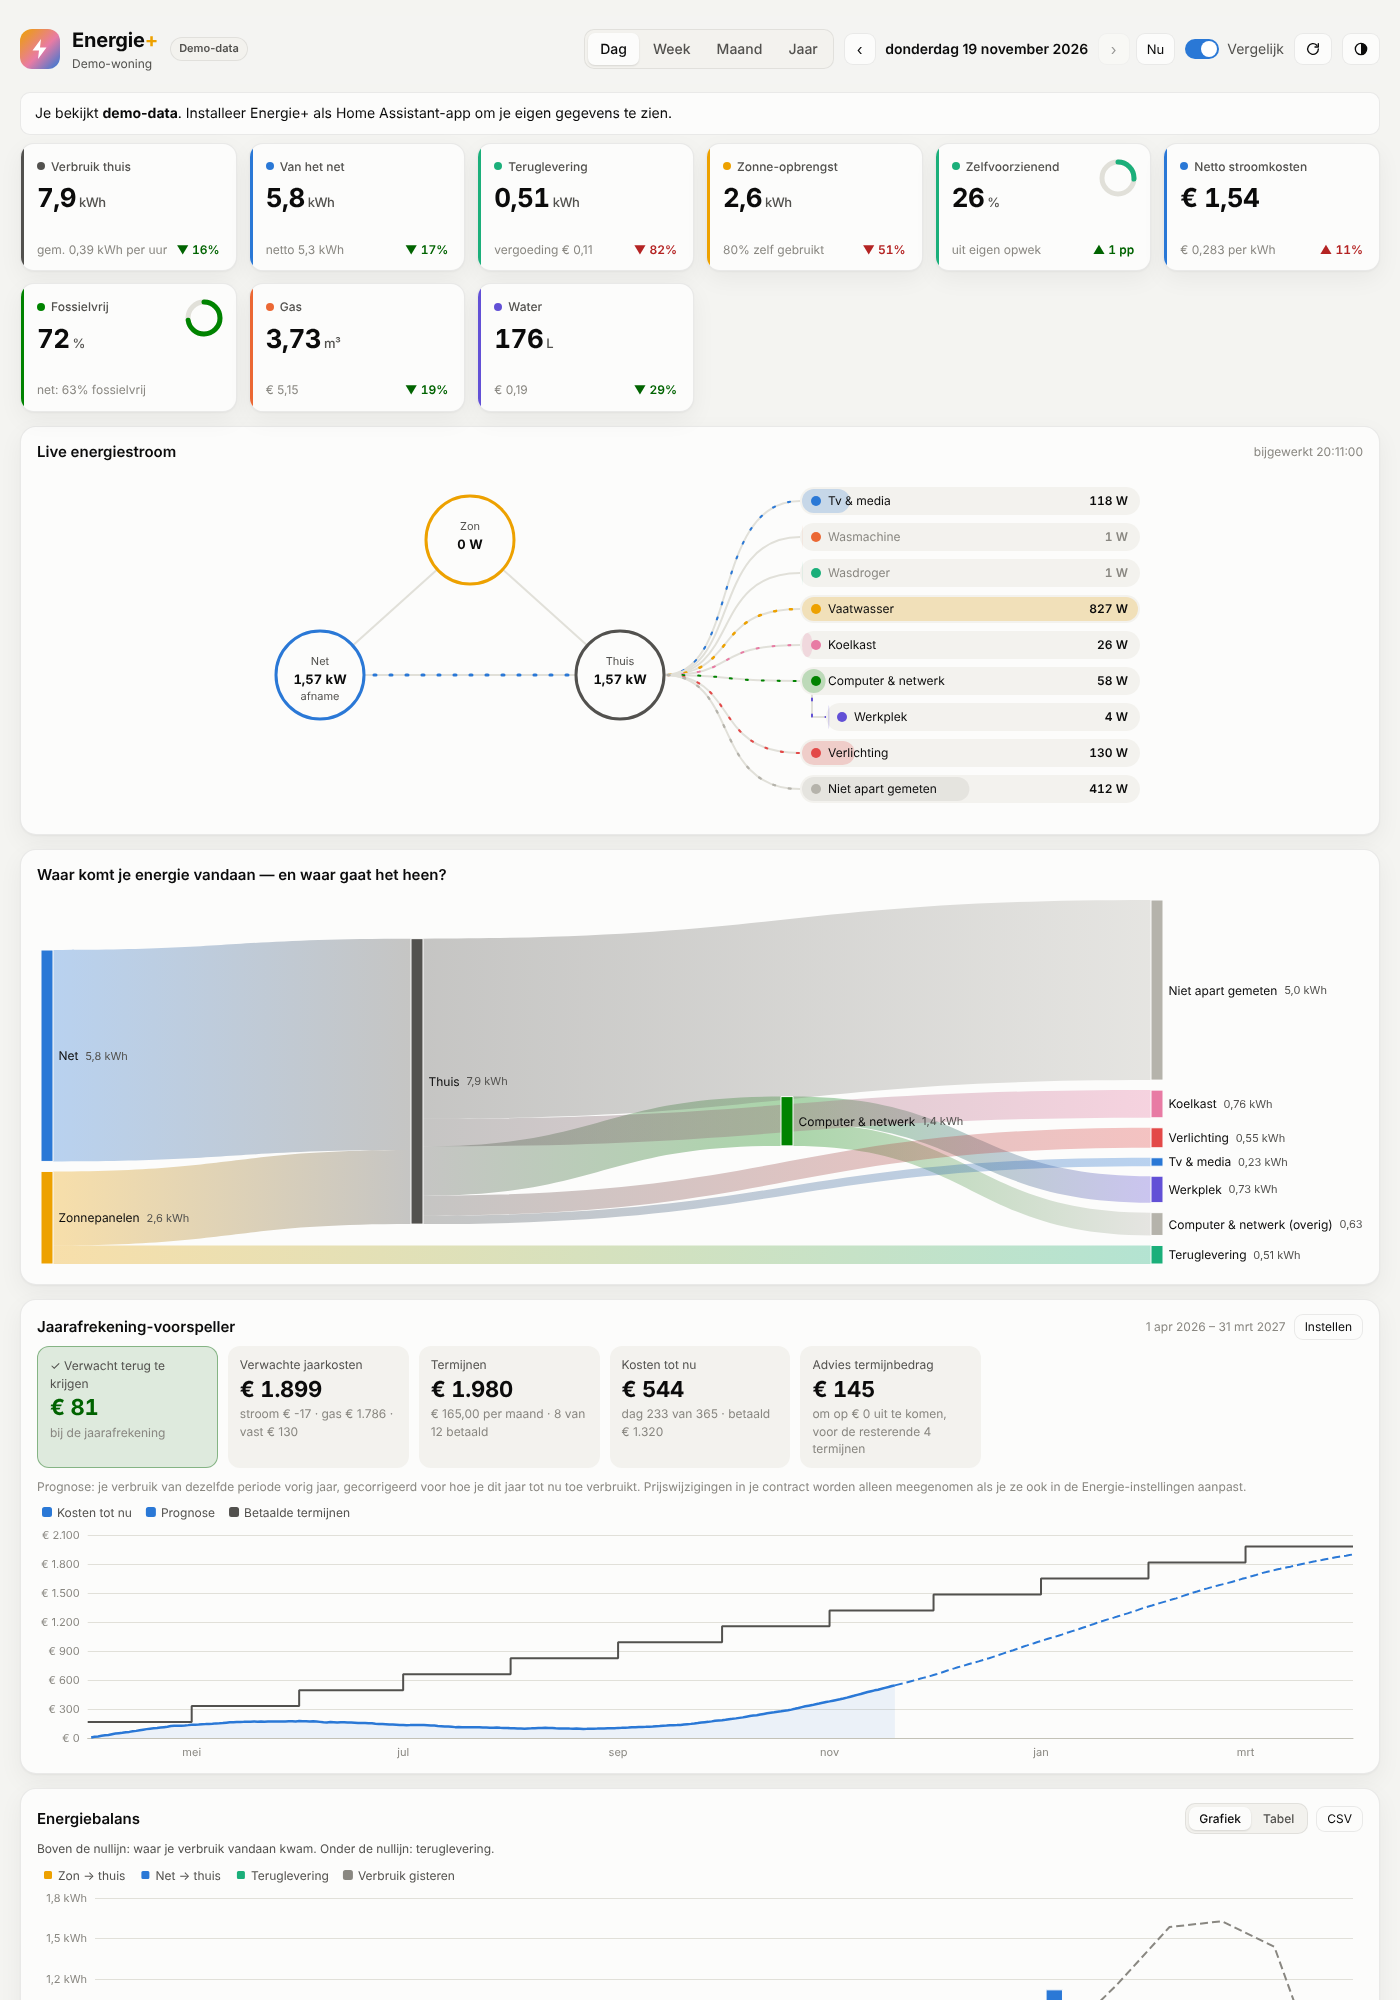
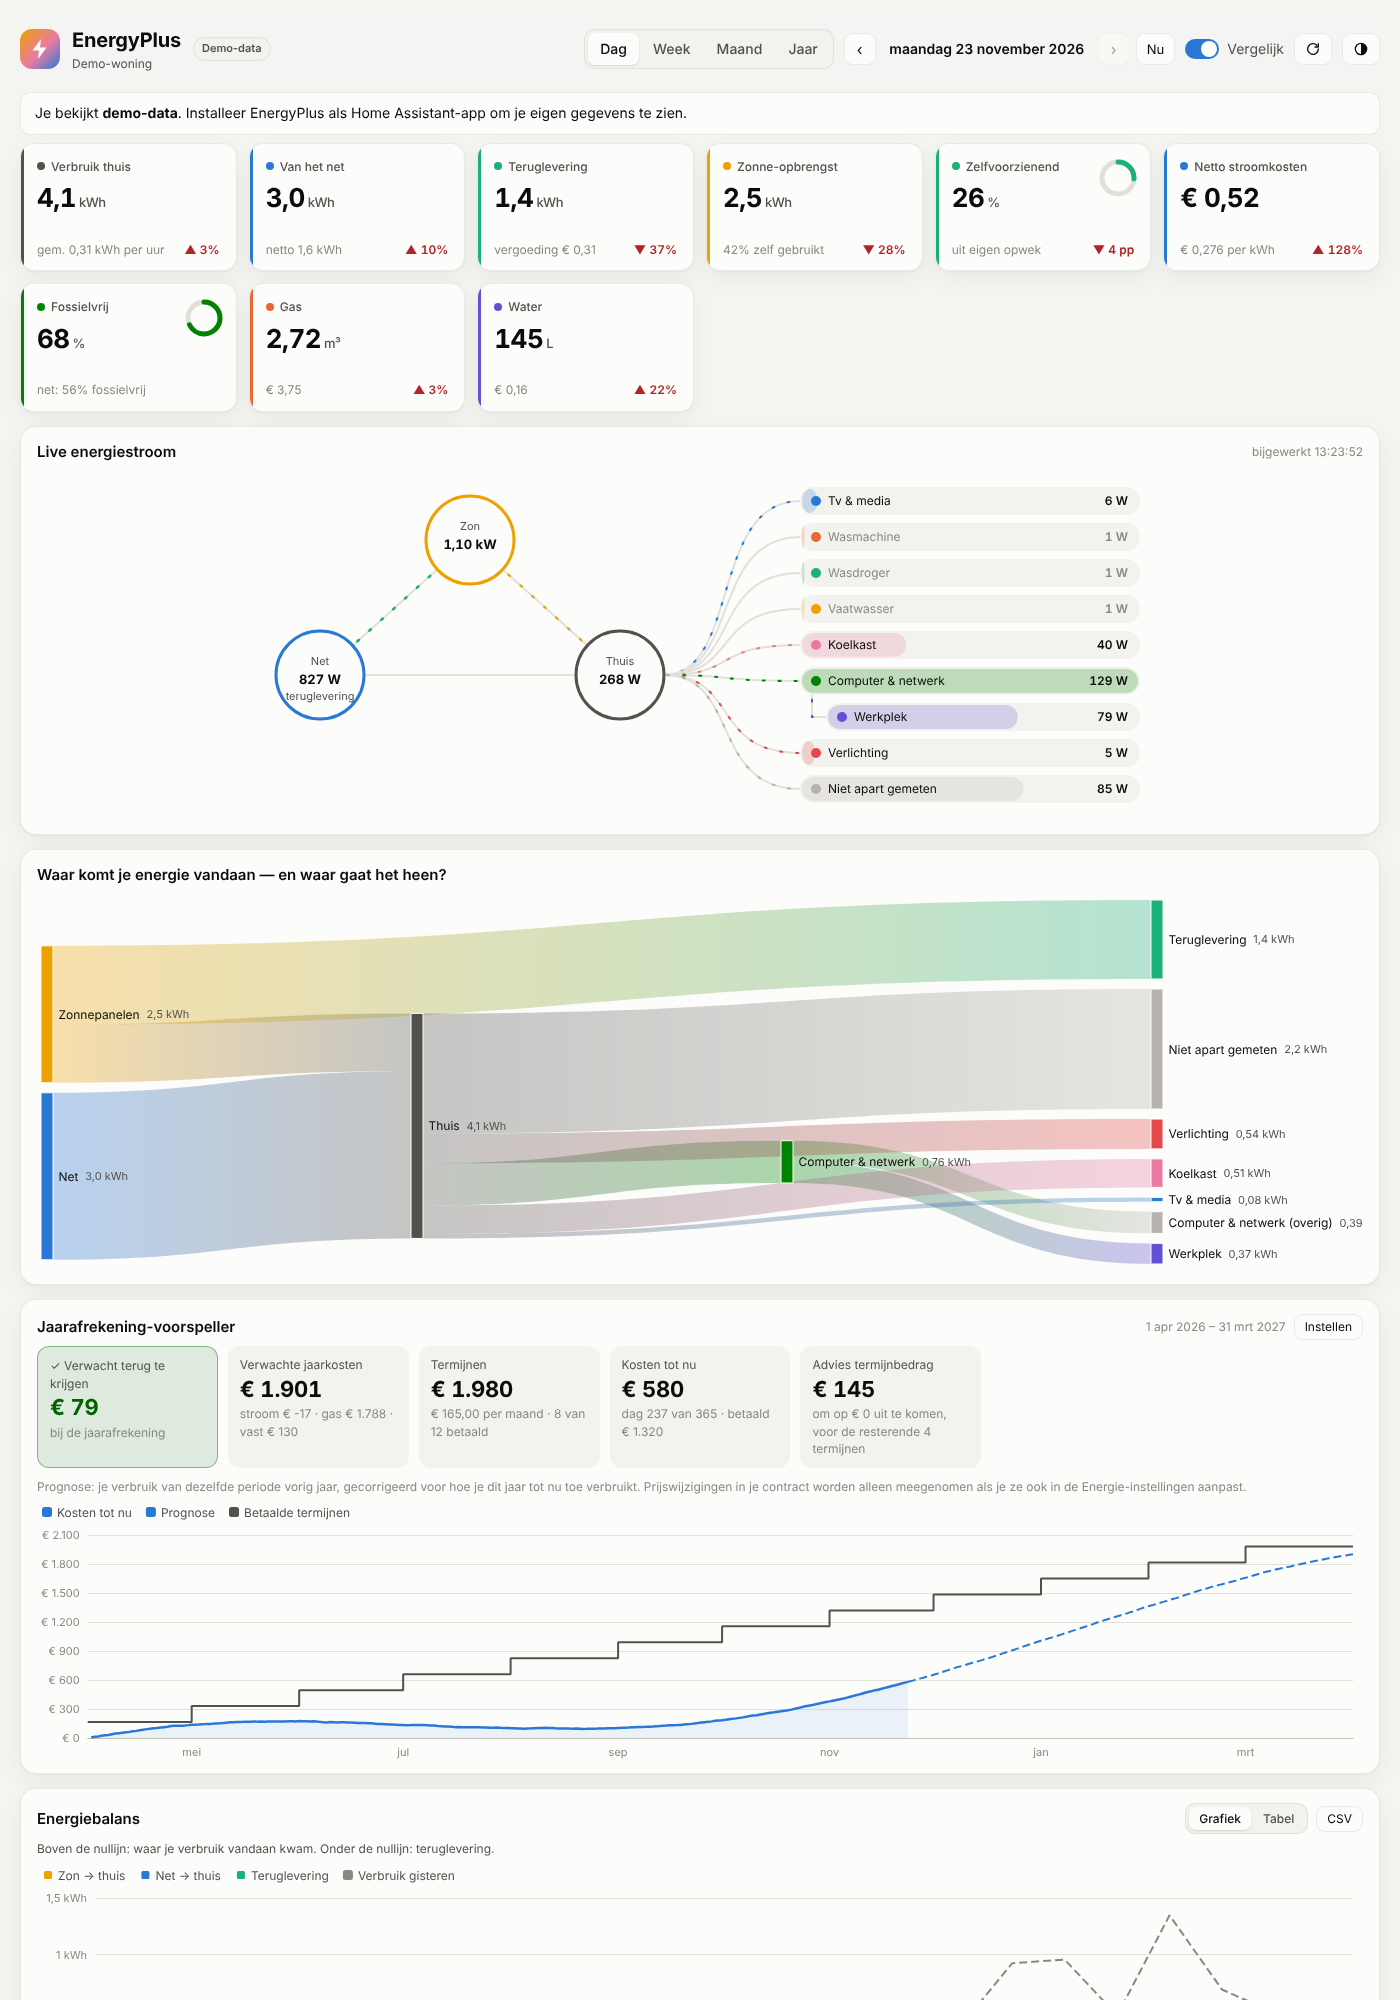
Rename the app to EnergyPlus (0.4.0)
Consistent with the EnergyPlus cards and ClimatePlus. The slug stays energy_plus,
so existing installations update in place and keep their settings.

Claude-Session: https://claude.ai/code/session_013uqEJ89N7Fygfv5UA2ipzL

diff --git a/energy_plus/rootfs/app/www/app.js b/energy_plus/rootfs/app/www/app.js
@@ -1,4 +1,4 @@
-// Energie+ — frontend. Reads the Energy dashboard configuration and long-term
+// EnergyPlus — frontend. Reads the Energy dashboard configuration and long-term
 // statistics from Home Assistant (read-only) and renders a detailed dashboard.
 import { createDemoApi } from "./demo.js";
 
@@ -1126,7 +1126,7 @@ function renderBill(data) {
   $("#bill-period").textContent = w ? `${w.s.toLocaleDateString(LOCALE, { day: "numeric", month: "short", year: "numeric" })} – ${new Date(w.e - 864e5).toLocaleDateString(LOCALE, { day: "numeric", month: "short", year: "numeric" })}` : "";
   $("#chart-bill").hidden = true;
   if (!w || settings.monthly_payment == null) {
-    body.innerHTML = `<div class="empty">Vul via <b>Instellen</b> je termijnbedrag, vaste kosten en de start van je afrekenjaar in. Dan voorspelt Energie+ of je bij de jaarafrekening geld terugkrijgt of moet bijbetalen.</div>`;
+    body.innerHTML = `<div class="empty">Vul via <b>Instellen</b> je termijnbedrag, vaste kosten en de start van je afrekenjaar in. Dan voorspelt EnergyPlus of je bij de jaarafrekening geld terugkrijgt of moet bijbetalen.</div>`;
     return;
   }
   if (!model.hasCost && !model.gas.some((g) => g.cost)) {
@@ -1847,14 +1847,14 @@ async function init() {
   try {
     api = await createApi();
     $("#demo-badge").hidden = !api.demo;
-    if (api.demo) banner("Je bekijkt <b>demo-data</b>. Installeer Energie+ als Home Assistant-app om je eigen gegevens te zien.", true);
+    if (api.demo) banner("Je bekijkt <b>demo-data</b>. Installeer EnergyPlus als Home Assistant-app om je eigen gegevens te zien.", true);
     haConfig = await api.ws({ type: "get_config" }).catch(() => ({}));
     CURRENCY = haConfig.currency || "EUR";
     if (haConfig.location_name) $("#location").textContent = haConfig.location_name;
     const [prefs, info] = await Promise.all([api.ws({ type: "energy/get_prefs" }).catch(() => null), api.ws({ type: "energy/info" }).catch(() => ({}))]);
     if (!prefs || !(prefs.energy_sources || []).length) {
       loading(false);
-      banner("Het Energie-dashboard van Home Assistant is nog niet ingericht. Stel eerst je bronnen in via <b>Instellingen → Dashboards → Energie</b>; Energie+ gebruikt diezelfde configuratie.");
+      banner("Het Energie-dashboard van Home Assistant is nog niet ingericht. Stel eerst je bronnen in via <b>Instellingen → Dashboards → Energie</b>; EnergyPlus gebruikt diezelfde configuratie.");
       return;
     }
     model = buildModel(prefs, info);

diff --git a/energy_plus/rootfs/app/www/index.html b/energy_plus/rootfs/app/www/index.html
@@ -3,7 +3,7 @@
 <head>
   <meta charset="utf-8" />
   <meta name="viewport" content="width=device-width, initial-scale=1" />
-  <title>Energie+</title>
+  <title>EnergyPlus</title>
   <link rel="stylesheet" href="styles.css" />
   <script src="vendor/echarts.min.js"></script>
 </head>
@@ -13,7 +13,7 @@
       <div class="brand">
         <svg class="brand-icon" viewBox="0 0 24 24" aria-hidden="true"><path d="M13 2 4.5 13.5H11L10 22l8.5-11.5H12L13 2Z"/></svg>
         <div>
-          <h1>Energie<span>+</span></h1>
+          <h1>EnergyPlus</h1>
           <div class="sub" id="location">Gedetailleerd energie-inzicht</div>
         </div>
         <span class="badge" id="demo-badge" hidden>Demo-data</span>
@@ -167,7 +167,7 @@
       </section>
     </main>
 
-    <footer class="foot">Energie+ · Een extra kijk op de data van je Home Assistant Energie-dashboard · alleen-lezen</footer>
+    <footer class="foot">EnergyPlus · Een extra kijk op de data van je Home Assistant Energie-dashboard · alleen-lezen</footer>
   </div>
 
   <div class="loading" id="loading"><div class="spinner"></div></div>

diff --git a/energy_plus/rootfs/app/www/styles.css b/energy_plus/rootfs/app/www/styles.css
@@ -1,4 +1,4 @@
-/* Energie+ — light/dark tokens. Series colours validated for CVD separation. */
+/* EnergyPlus — light/dark tokens. Series colours validated for CVD separation. */
 :root {
   color-scheme: light;
   --page: #f4f4f1;
@@ -87,7 +87,6 @@ button { font: inherit; color: inherit; cursor: pointer; }
   fill: #fff; background: linear-gradient(135deg, var(--solar), var(--battery) 55%, var(--grid-in));
 }
 .brand h1 { margin: 0; font-size: 20px; letter-spacing: -0.01em; }
-.brand h1 span { color: var(--solar); }
 .brand .sub { color: var(--ink-2); font-size: 12px; }
 .badge {
   font-size: 11px; font-weight: 600; padding: 3px 8px; border-radius: 999px;

diff --git a/energy_plus/rootfs/app/www/demo.js b/energy_plus/rootfs/app/www/demo.js
@@ -1,6 +1,6 @@
 // Demo mode: a deterministic, synthetic Dutch household (gas + solar, no battery, no EV charging).
 // Used when the page is opened outside Home Assistant or with ?demo in the URL.
-// Mimics the subset of the HA WebSocket API that Energie+ uses.
+// Mimics the subset of the HA WebSocket API that EnergyPlus uses.
 
 const HOUR = 3600e3;
 const BAT_CAP = 10, BAT_MAX = 3, BAT_EFF = 0.95;

diff --git a/energy_plus/DOCS.md b/energy_plus/DOCS.md
@@ -1,6 +1,6 @@
-# Energie+
+# EnergyPlus
 
-Energie+ adds an **extra** energy dashboard to the Home Assistant sidebar. It does not
+EnergyPlus adds an **extra** energy dashboard to the Home Assistant sidebar. It does not
 replace or change the built-in Energy dashboard: it reads the same configuration
 (*Settings → Dashboards → Energy*) and the same long-term statistics, and shows them in
 more detail.
@@ -40,11 +40,11 @@ All options are optional.
 | `device_power_entities` | Only when a device's power sensor is not found automatically. One entry per device: `energy_sensor=power_sensor`. |
 
 If the power sensors are configured in the Energy dashboard itself (newer HA versions),
-Energie+ picks them up automatically. Without a grid power sensor the live card is hidden.
+EnergyPlus picks them up automatically. Without a grid power sensor the live card is hidden.
 
 ### Live flow per device
 
-For every device in the Energy dashboard's *Individual devices* list, Energie+ looks for a
+For every device in the Energy dashboard's *Individual devices* list, EnergyPlus looks for a
 live power sensor (W/kW) in this order:
 
 1. The power sensor set for that device in the Energy settings (newer HA versions).
@@ -64,7 +64,7 @@ device_power_entities:
 ### Sensor checks in the live view
 
 - If the devices together use more than the home in total (solar + grid − feed-in), the
-  sensors disagree. Energie+ then shows "?" for *Niet apart gemeten* (hover for details).
+  sensors disagree. EnergyPlus then shows "?" for *Niet apart gemeten* (hover for details).
 - A sensor that shows power (> 5 W) but has not reported for more than 5 minutes is
   marked with ⏱ and its age on that node or device (based on `last_reported`). Typical cause: cloud integrations
   of inverters that update only every 5–15 minutes.

diff --git a/README.md b/README.md
@@ -1,10 +1,16 @@
-# Energie+ for Home Assistant
+# EnergyPlus for Home Assistant
 
 An **extra**, more detailed and more visual energy dashboard for Home Assistant — installed
 as a Home Assistant app (add-on) with its own sidebar panel. It sits next to the built-in
 Energy dashboard and reuses its configuration; nothing is replaced or changed.
 
-![Energie+ light](docs/screenshot-light.png)
+![EnergyPlus light](docs/screenshot-light.png)
+
+## Dashboard cards
+
+The parts of this dashboard are also available as separate cards for your own Home
+Assistant dashboards, in [energyplus-cards](https://github.com/martijntalens/energyplus-cards).
+The cards work without this app.
 
 ## Installation
 
@@ -12,13 +18,13 @@ Energy dashboard and reuses its configuration; nothing is replaced or changed.
 
 1. In Home Assistant: **Settings → Apps (Add-ons) → App store → ⋮ → Repositories**, add
    `https://github.com/martijntalens/EnergyPlus`.
-2. Install **Energie+**, start it and enable **Show in sidebar**.
+2. Install **EnergyPlus**, start it and enable **Show in sidebar**.
 
 ### Option B — local app
 
 1. Copy the `energy_plus` folder to the `/addons` share of your Home Assistant
    (e.g. via the *Samba share* or *Advanced SSH & Web Terminal* app).
-2. **Settings → Apps → App store → ⋮ → Check for updates**. Energie+ appears under
+2. **Settings → Apps → App store → ⋮ → Check for updates**. EnergyPlus appears under
    *Local apps*.
 3. Install, start, enable **Show in sidebar**.
 

diff --git a/energy_plus/CHANGELOG.md b/energy_plus/CHANGELOG.md
@@ -1,5 +1,10 @@
 # Changelog
 
+## 0.4.0
+- The app is now called **EnergyPlus** everywhere (app store, sidebar and page title),
+  in line with the EnergyPlus cards and ClimatePlus. The internal slug stays
+  `energy_plus`, so updating keeps your installation and settings.
+
 ## 0.3.2
 - Live flow: the warning banner is removed; issues are only marked on the sensor itself
   (⏱ with its age for stale sensors, "apparaten > huis ?" on *Niet apart gemeten* when the devices add up
